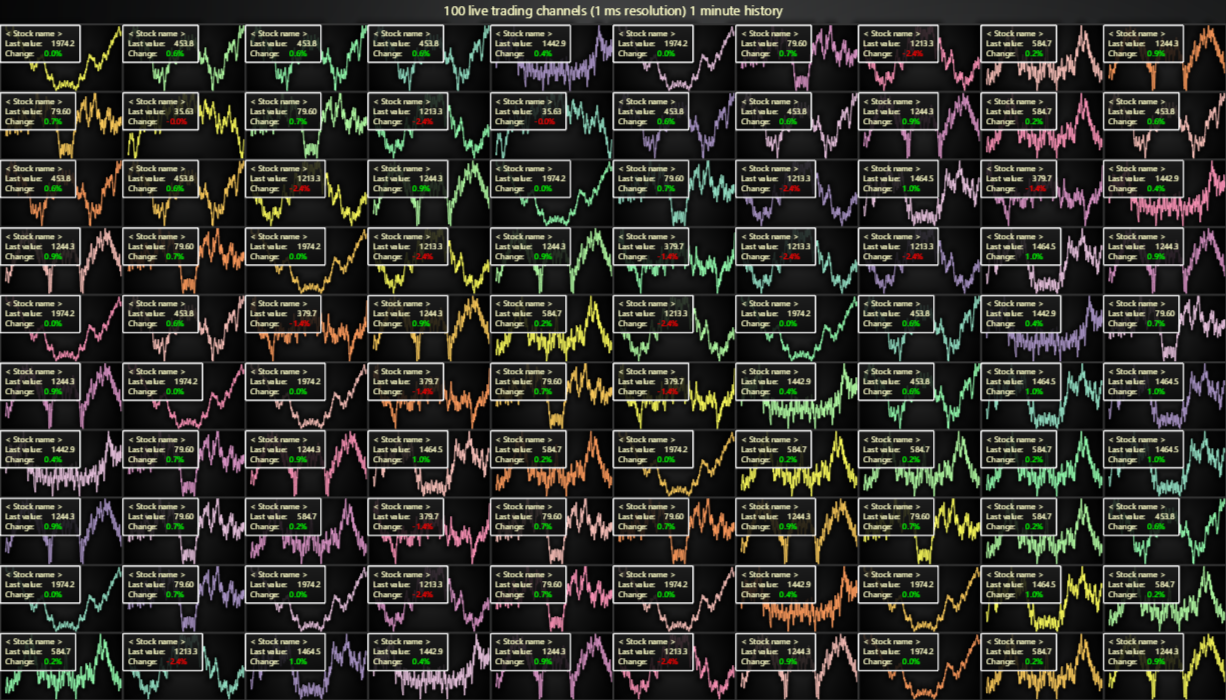
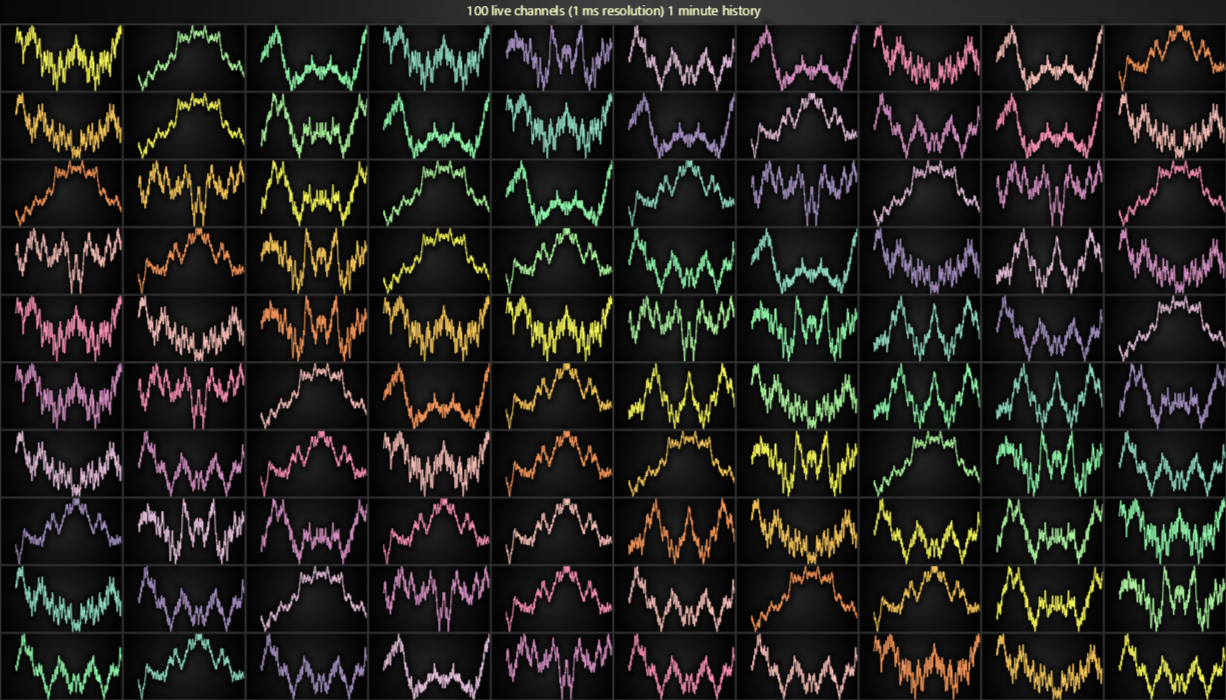
LCJS 4.1.0

diff --git a/src/index.js b/src/index.js
@@ -1,9 +1,5 @@
 /**
- * Next-generation intensive trading application example with LightningChart.
- *
  * 100 charts, each receive 1000 new data points every second that are immediately displayed in real-time.
- *
- * Live analytics are placed inside each chart, displaying the last Y value and visible value change (%).
  */
 
 // Import LightningChartJS
@@ -91,7 +87,7 @@ for (let column = 0; column < COLUMNS; column += 1) {
 // Add title
 uiPanel
     .addUIElement(UIElementBuilders.TextBox.setBackground(UIBackgrounds.None))
-    .setText(`${COLUMNS * ROWS} live trading channels (1 ms resolution) 1 minute history`)
+    .setText(`${COLUMNS * ROWS} live channels (1 ms resolution) 1 minute history`)
     .setMouseInteractions(false)
     .setPosition({ x: 50, y: 100 })
     .setOrigin(UIOrigins.CenterTop)
@@ -114,41 +110,6 @@ if (!showFullDashboard) {
         })
 }
 
-// Add chart specific UI elements.
-const chartUiList = chartList.map((chart) => {
-    const uiLayout = chart
-        .addUIElement(UILayoutBuilders.Column, { x: chart.uiScale, y: chart.getDefaultAxisY() })
-        .setOrigin(UIOrigins.LeftTop)
-        .setPosition({ x: 0, y: chart.getDefaultAxisY().getInterval().end })
-        .setMouseInteractions(false)
-    chart.getDefaultAxisY().onIntervalChange((_, start, end) => uiLayout.setPosition({ x: 0, y: end }))
-    uiLayout
-        .addElement(UIElementBuilders.TextBox)
-        .setText('< Stock name >')
-        .setTextFont((font) => font.setSize(8))
-        .setMargin({ bottom: -6 })
-    const rowLastValue = uiLayout.addElement(UILayoutBuilders.Row).setMargin({ bottom: -6 })
-    const rowChange = uiLayout.addElement(UILayoutBuilders.Row)
-    rowLastValue
-        .addElement(UIElementBuilders.TextBox)
-        .setText('Last value:')
-        .setTextFont((font) => font.setSize(8))
-    const labelLastValue = rowLastValue
-        .addElement(UIElementBuilders.TextBox)
-        .setText('')
-        .setTextFont((font) => font.setSize(8))
-    rowChange
-        .addElement(UIElementBuilders.TextBox)
-        .setText('Change:')
-        .setTextFont((font) => font.setSize(8))
-    const labelChange = rowChange
-        .addElement(UIElementBuilders.TextBox)
-        .setText('')
-        .setTextFont((font) => font.setSize(8))
-
-    return { labelLastValue, labelChange }
-})
-
 const seriesList = chartList.map((chart, i) => {
     const series = chart
         .addLineSeries({
@@ -161,7 +122,7 @@ const seriesList = chartList.map((chart, i) => {
             // Pass custom supplied index for automatic series coloring.
             automaticColorIndex: i,
         })
-        .setName(`< Stock name >`)
+        .setName(`Channel ${i + 1}`)
         .setStrokeStyle((stroke) => stroke.setThickness(1))
         .setDataCleaning({
             minDataPointCount: 1000,
@@ -218,8 +179,6 @@ Promise.all(
         dataSetsAndSeries.push({
             dataSet: pair.dataSet,
             seriesList: [pair.series],
-            // Extra array that is used to keep memory of actively visible data points. Used for calculating visible change of Y values.
-            visibleDataPoints: [],
         })
     })
     const dataSetsCount = dataSetsAndSeries.length
@@ -245,46 +204,8 @@ Promise.all(
             item.seriesList.forEach((series) => {
                 series.add(newPoints)
             })
-
-            // Update analytics UI for each chart that uses the same data set.
-            const lastValue = item.seriesList[0].axisY.formatValue(newPoints[newPoints.length - 1].y)
-
-            // Update list of visible data points.
-            // NOTE: push ... syntax is known to cause errors with really large arrays, this is just a bit of extra safety to prevent random crashes when chart is hidden to background and opened after a long time.
-            if (newPoints.length < 100000) {
-                item.visibleDataPoints.push(...newPoints)
-            }
-
-            // Update chart UI that displays last value.
-            item.seriesList.forEach((series) => {
-                const chartUi = chartUiList[chartList.indexOf(series.chart)]
-                chartUi.labelLastValue.setText(lastValue)
-            })
         })
         requestAnimationFrame(pushData)
     }
     pushData()
-
-    // Logic for displaying visible value change for each chart.
-    const fillStylePositiveChange = new SolidFill({ color: ColorRGBA(0, 255, 0) })
-    const fillStyleNegativeChange = new SolidFill({ color: ColorRGBA(255, 0, 0) })
-    const updateVisibleChange = () => {
-        dataSetsAndSeries.forEach((item, i) => {
-            if (item.visibleDataPoints.length > HISTORYMS) {
-                item.visibleDataPoints = item.visibleDataPoints.slice(item.visibleDataPoints.length - HISTORYMS)
-            }
-            const yStart = item.visibleDataPoints[0].y
-            const yEnd = item.visibleDataPoints[item.visibleDataPoints.length - 1].y
-            const visibleChange =
-                yEnd > yStart ? `${((yEnd / yStart - 1) * 100).toFixed(1)}%` : `-${((1 - yEnd / yStart) * 100).toFixed(1)}%`
-
-            item.seriesList.forEach((series) => {
-                const chartUi = chartUiList[chartList.indexOf(series.chart)]
-                chartUi.labelChange
-                    .setText(visibleChange)
-                    .setTextFillStyle(yEnd > yStart ? fillStylePositiveChange : fillStyleNegativeChange)
-            })
-        })
-    }
-    setInterval(updateVisibleChange, 2000)
 })

diff --git a/README.md b/README.md
@@ -1,6 +1,6 @@
-# JavaScript Real-Time Trading Dashboard
+# JavaScript Real-Time Trend Dashboard
 
-![JavaScript Real-Time Trading Dashboard](dashboardRealtimeTrading-darkGold.png)
+![JavaScript Real-Time Trend Dashboard](dashboardRealtimeTrading-darkGold.png)
 
 This demo application belongs to the set of examples for LightningChart JS, data visualization library for JavaScript.
 
@@ -19,31 +19,21 @@ The demo can be used as an example or a seed project. Local execution requires t
 
 ## Description
 
-This example showcases how LightningChart JS can be used to enable next-generation Fintech chart applications.
-
 As proven in our [2021 line charts performance comparison](https://lightningchart.com/javascript-charts-performance-comparison/), LightningChart JS line charts are **over 700 times faster** than other web charts. Especially in real-time applications LightningChart enables the creation of data visualization applications unlike anything seen before in web pages.
 
-By default, this example will show a small dashboard that displays the price variation of nine imaginary stock trends in real-time.
+By default, this example will show a small dashboard that displays nine real-time trends.
 
 **However**, the real treat is activated by pressing the "Click here to show full 10x10 dashboard" button inside the chart. This is intended for Desktop users, as the complete application requires quite a bit of space.
 
 ![](./assets/show-full.png 'Show full 10x10 Dashboard example')
 
-In its full size, the example shows 100 line charts. Each chart is connected to a real-time data source (random data, doesn't reflect any real stock price), the sampling rate is 1 000 data points per second **for every chart**. This sums up to **100 000** processed data points per second.
-
-In addition to this, every chart has a little embedded statistical panel which displays the newest price and the price change between the newest and oldest visible price.
+In its full size, the example shows 100 line charts. Each chart is connected to a real-time data source (random data), the sampling rate is 1 000 data points per second **for every chart**. This sums up to **100 000** processed data points per second.
 
 In the previously mentioned performance comparison study we tested this kind of applications with the major manufacturers who claim their charts to be **high-performance oriented** or **the fastest**. The results showed that the wide majority of web charts are not applicable to real-time visualization of even as little as 1 000 data points per second.
 
 Why not? Because the charts spend too much time processing this amount of data. This can be observed by the web page visibly slowing down, preventing users from interacting with their browser.
 
-To learn more about LightningChart JS and its Fintech capabilities, here are some potentially interesting links:
-
--   [Ultra Precision Fintech Charts](https://lightningchart.com/lightningchart-js-interactive-examples/examples/lcjs-example-0024-ultraPrecisionTradingChart.html) (1 microsecond precision!)
-
--   [LC JS Trading + Indicators (Volume, RSI, SMA, EMA) Showcase with real trading data from alphavantage.co](https://arction.github.io/lcjs-showcase-trading/)
-
--   [Candlestick, Area, DateTime features and more](https://lightningchart.com/lightningchart-js-interactive-examples/examples/lcjs-example-0502-dashboardTrading.html)
+To learn more about LightningChart JS, here are some potentially interesting links:
 
 -   [Latest news on LC JS performance](https://lightningchart.com/high-performance-javascript-charts/)
 
@@ -85,16 +75,16 @@ Direct developer email support can be purchased through a [Support Plan][4] or b
 © LightningChart Ltd 2009-2022. All rights reserved.
 
 
-[Dashboard]: https://lightningchart.com/lightningchart-js-api-documentation/v4.0.0/classes/Dashboard.html
-[XY cartesian chart]: https://lightningchart.com/lightningchart-js-api-documentation/v4.0.0/classes/ChartXY.html
-[Line series]: https://lightningchart.com/lightningchart-js-api-documentation/v4.0.0/classes/LineSeries.html
-[Axis]: https://lightningchart.com/lightningchart-js-api-documentation/v4.0.0/classes/Axis.html
-[Axis tick strategies]: https://lightningchart.com/lightningchart-js-api-documentation/v4.0.0/variables/AxisTickStrategies.html
-[Axis scroll strategies]: https://lightningchart.com/lightningchart-js-api-documentation/v4.0.0/variables/AxisScrollStrategies.html
-[UI position origins]: https://lightningchart.com/lightningchart-js-api-documentation/v4.0.0/variables/UIOrigins.html
-[UI layout builders]: https://lightningchart.com/lightningchart-js-api-documentation/v4.0.0/variables/UILayoutBuilders.html
-[UI element builders]: https://lightningchart.com/lightningchart-js-api-documentation/v4.0.0/variables/UIElementBuilders.html
-[Solid FillStyle]: https://lightningchart.com/lightningchart-js-api-documentation/v4.0.0/classes/SolidFill.html
-[RGBA color factory]: https://lightningchart.com/lightningchart-js-api-documentation/v4.0.0/functions/ColorRGBA.html
-[Time formatting functions]: https://lightningchart.com/lightningchart-js-api-documentation/v4.0.0/variables/TimeFormattingFunctions.html
+[Dashboard]: https://lightningchart.com/lightningchart-js-api-documentation/v4.1.0/classes/Dashboard.html
+[XY cartesian chart]: https://lightningchart.com/lightningchart-js-api-documentation/v4.1.0/classes/ChartXY.html
+[Line series]: https://lightningchart.com/lightningchart-js-api-documentation/v4.1.0/classes/LineSeries.html
+[Axis]: https://lightningchart.com/lightningchart-js-api-documentation/v4.1.0/classes/Axis.html
+[Axis tick strategies]: https://lightningchart.com/lightningchart-js-api-documentation/v4.1.0/variables/AxisTickStrategies.html
+[Axis scroll strategies]: https://lightningchart.com/lightningchart-js-api-documentation/v4.1.0/variables/AxisScrollStrategies.html
+[UI position origins]: https://lightningchart.com/lightningchart-js-api-documentation/v4.1.0/variables/UIOrigins.html
+[UI layout builders]: https://lightningchart.com/lightningchart-js-api-documentation/v4.1.0/variables/UILayoutBuilders.html
+[UI element builders]: https://lightningchart.com/lightningchart-js-api-documentation/v4.1.0/variables/UIElementBuilders.html
+[Solid FillStyle]: https://lightningchart.com/lightningchart-js-api-documentation/v4.1.0/classes/SolidFill.html
+[RGBA color factory]: https://lightningchart.com/lightningchart-js-api-documentation/v4.1.0/functions/ColorRGBA.html
+[Time formatting functions]: https://lightningchart.com/lightningchart-js-api-documentation/v4.1.0/variables/TimeFormattingFunctions.html
 
